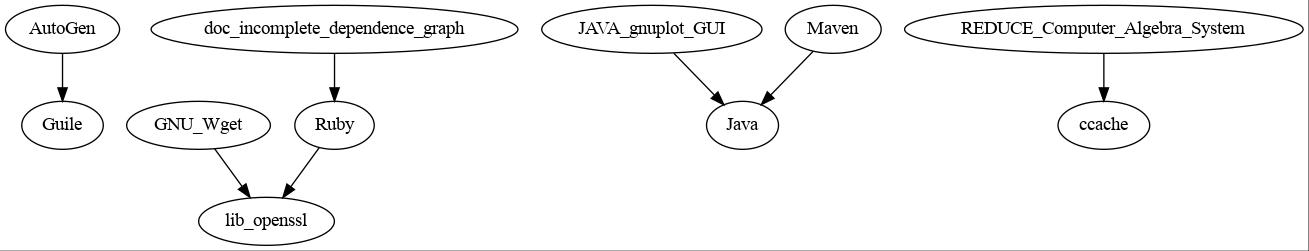
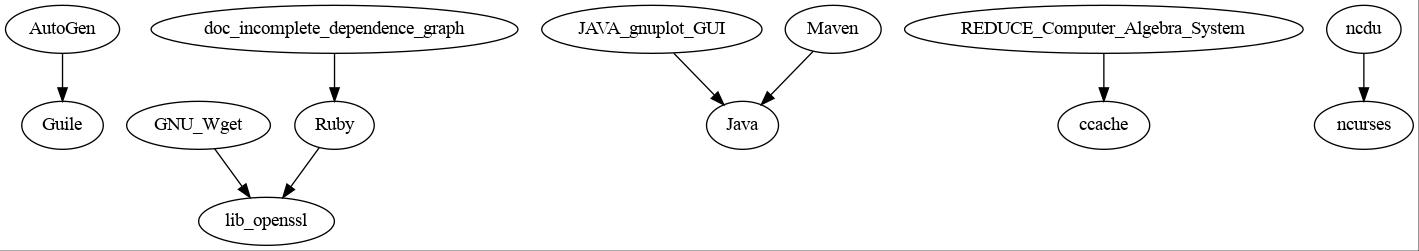
doc_incomplete_dependence_graph update

diff --git a/home_folder_of_user_named_mmmv/applications/doc_incomplete_dependence_graph/partial_dependence_graph.rb b/home_folder_of_user_named_mmmv/applications/doc_incomplete_dependence_graph/partial_dependence_graph.rb
@@ -22,10 +22,11 @@ def declare_graph()
     directed_edge_from_left_to_right("JAVA_gnuplot_GUI","Java");
     directed_edge_from_left_to_right("Maven","Java");
     directed_edge_from_left_to_right("REDUCE_Computer_Algebra_System","ccache");
+    directed_edge_from_left_to_right("ncdu","ncurses");
     #----------------------------------------------------------------------
     directed_edge_from_left_to_right("doc_incomplete_dependence_graph","Ruby");
 end # declare_graph
 
 #==========================================================================
-# S_VERSION_OF_THIS_FILE="379ffcf4-555d-448e-b235-e1e1c03068e7"
+# S_VERSION_OF_THIS_FILE="529ea372-3753-4112-b7fe-a110802168e7"
 #==========================================================================
